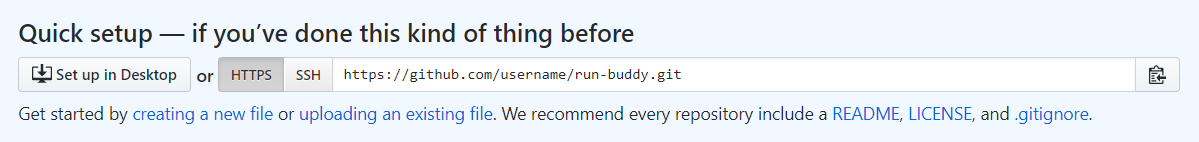
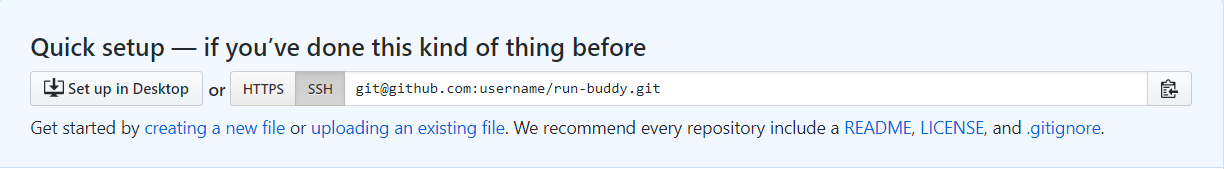
html, git, github cleanup

diff --git a/01-html/content/step-1-html-cmd-git.md b/01-html/content/step-1-html-cmd-git.md
@@ -81,7 +81,7 @@ Of course, everything we've done up to this point could also be accomplished wit
 |-----------|-----------------------|
 |pwd        |print working directory|
 |ls         |list files in directory|
-|cd [name]  |change to directory    |
+|cd (name)  |change to directory    |
 |cd ..      |go up/back a directory |
 |mkdir      |make a new directory   |
 |touch      |make a new file        |
@@ -152,11 +152,11 @@ What is the correct syntax to close the `<title>` tag?\
 What is the difference between `<h1>` and `<h2>`?\
 What is the purpose of the `<body>` tag?
 
-There are two remaining pieces we haven't covered yet. The opening `<html>` tag was actually written as `<html lang="en">`. This is how we can specify the default language for our page. In this case, we're letting browsers know that this page is meant to be read in English. Lastly, there's a tag in the `<head>` that looks like this: `<meta charset="UTF-8" />`. This is an example of a meta tag, [of which there are many](https://devhints.io/html-meta). Like the `<title>` tag, they give the browser extra information about the page, sometimes for display purposes and sometimes for search engine optimization.
+There are two remaining pieces we haven't covered yet. The opening `<html>` tag was actually written as `<html lang="en">`. This is how we can specify the default language for our page. In this case, we're letting browsers know that this page is meant to be read in English. Lastly, there's a tag in the `<head>` that looks like this: `<meta charset="UTF-8" />`. This is an example of a **meta tag**, [of which there are many](https://devhints.io/html-meta). Like the `<title>` tag, they give the browser extra information about the page, sometimes for display purposes and sometimes for search engine optimization. We'll discuss more of these in future modules.
 
-The `charset` meta tag is important to include now, because it specifies the range of characters (letters, numbers, symbols, etc.) that can be used. UTF-8 accommodates just about any character we would want, from foreign language symbols to emojis. Copy this emoji (🏃) and paste it somewhere in your `<body>`. Note that it shows up just fine in the browser, but if you change the meta tag to `<meta charset="ASCII" />`, it no longer works, because the browser will limit the available characters to those of the ASCII character set. Best to stick with UTF-8.
+The `charset` meta tag is important to include now, though, because it specifies the range of characters (letters, numbers, symbols, etc.) that can be used. UTF-8 accommodates just about any character we would want, from foreign language symbols to emojis. Copy this emoji (🏃) and paste it somewhere in your `<body>`. Note that it shows up just fine in the browser, but if you change the meta tag to `<meta charset="ASCII" />`, it no longer works, because the browser will limit the available characters to those of the ASCII character set. Best to stick with UTF-8.
 
-> **Deep Dive:** Read more about [UTF-8 encoding](https://en.wikipedia.org/wiki/UTF-8).
+> **Deep Dive:** Read more about [character encoding](https://www.w3.org/International/questions/qa-what-is-encoding).
 
 The good news is, much of this is boilerplate, meaning every web page is going to start with the same structure. Every page needs a DOCTYPE, an `<html>` tag, a `<head>` tag, etc. It's worth typing out again and again just to reiterate their importance, but it can also be copy/pasted into future projects without harm.
 
@@ -170,40 +170,50 @@ One last thing to keep in mind is how we've been organizing the code in our HTML
 
 ## Getting Git
 
-Our web page doesn't look like much yet, but this is still a good place to stop and take care of another important aspect when it comes to managing a project: Git. Git is a **version control** system that allows you to save snapshots, or commits, of your work. Whenever you reach a good stopping point, you can save, or commit, the current state of your codebase. This creates a nice history of changes that you can look back on and allows you to easily revert to an earlier version if your codebase suddenly breaks beyond repair. Git also lets you push your commits to a remote location, meaning you won't lose any work if your computer crashes, or you can switch between your home computer and office computer and continue where you left off.
+Our web page doesn't look like much yet, but this is still a good place to stop and take care of another important aspect when it comes to managing a project: **version control**. Git is one option to accomplish this. It's a system that allows you to save snapshots (or in Git terms, **commits**) of your work. Whenever you reach a good stopping point, you can save, or commit, the current state of your codebase. This creates a nice history of changes that you can look back on and allows you to easily revert to an earlier version if your codebase suddenly breaks beyond repair. Git also lets you push your commits to a remote location, meaning you won't lose any work if your computer crashes, or you can switch between your home computer and office computer and continue where you left off.
 
-The biggest benefits of Git come from working on a team, which is very likely to happen once you step out into the development workforce. Without Git, it would be extremely tedious for developers to share code and work on the same app without accidentally losing or overwriting each other's code. Using Git, developers can create alternate versions of the same codebase (called branches) and work in isolation. When developers are ready to merge these branches together, Git will point out if any lines of code conflict and give developers a chance to fix the overlap. Pretty nifty stuff.
+The biggest benefits of Git come from working on a team, which is very likely to happen once you step out into the development workforce. Without Git, it would be extremely tedious for developers to share code and work on the same app without accidentally losing or overwriting each other's code. Using Git, developers can create alternate versions of the same codebase (called **branches**) and work in isolation. When developers are ready to merge these branches together, Git will point out if any lines of code conflict and give developers a chance to fix the overlap. Pretty nifty stuff.
 
 > **Deep Dive:** Learn more about [Git](https://git-scm.com/video/what-is-git) from the Git team!
 
-We'll be honest, though... learning Git is tough. It's okay if things don't click right away, or if commits get messed up. The good news is, there will be plenty of opportunities to practice Git in the coming weeks. By the time you complete the boot camp, you'll be a Git master!
+We'll be honest, though... learning Git is tough. It's okay if things don't click right away, or if commits get messed up. Fortunately, there will be plenty of opportunities to practice Git in the coming weeks. By the time you complete the boot camp, you'll be a Git master!
 
 Let's turn our Run Buddy project into a Git **repository.** Open the terminal in the `run-buddy` directory and run the following command: `git init`. The terminal should print something like `Initialized empty Git repository.`
 
 > **Important:** If your computer doesn't recognize the `git` command, make sure you've installed it from the [Git website](https://git-scm.com/downloads).
 
-It may not seem like much happened, but this created a hidden `.git` folder in the `run-buddy` directory that designates it as a Git repository. If you want to verify for yourself, run the command `ls -A`, which will list any hidden files and folders as well as normal files. As a Git repository, though, we can now start doing all things Git while in this folder.
+It may not seem like much happened, but this created a hidden `.git` folder in the `run-buddy` directory that designates it as a Git repository. If you want to verify for yourself, run the command `ls -a`, which will list any hidden files and folders as well as normal files. A file or folder starting with `.` is hidden, and the `.git` folder is marked as hidden, because it's probably not something we should be messing with.
 
-First, try running the command `git status`, which should display the following information:
+Now that we have a Git repository, though, we can now start doing all things Git while in this folder. First, try running the command `git status`, which should display the following information:
 
 ![git status](./assets/step-1/400-git-status.png)
 
-`git status` is a great way to quickly check what files have changed since your last commit (or saved snapshot). Granted, we haven't commited anything yet, so this information may be a little confusing. And why is it saying we're on branch master? Did we make a branch called master? By default, every repository comes with a master branch. We won't worry about creating additional branches just yet, so it's fine to leave it as is. But this information also lists `index.html` under "Untracked files."
+> **Important:** Mac users, if you see a `.DS_Store` file in there as well, ignore it for now. We'll talk more about this file later in the lesson.
 
-The thing about Git is that it only cares about files you tell it to care about. In other words, files you tell it to track. Well, we definitely care about `index.html`, so let's add it to Git's tracking:
+`git status` is a great way to quickly check what files have changed since the last time you saved, or committed, your work. Granted, we're just barely starting out, so there's not much to see yet. But notice that Git has listed `index.html` under `Untracked files`. The thing about Git is that it only cares about files you tell it to care about. In other words, files you tell it to track. Well, we definitely care about `index.html`, so let's add it to Git's tracking:
 
 ```bash
 git add index.html
 git status
 ```
 
-Running `git status` again shows `index.html` under "Changes to be commited." So we haven't actually saved/commited anything yet; we've just prepped Git on what could be commited. Let's go ahead and make that commit now by typing the following: `git commit -m "page template"`
+`git add` is another important command that moves any new files or changes to what is called **staging**. Think of it like the process of getting actors ready to go out on stage. The show hasn't started yet, but we need to round up who is going. In Git terms, we haven't saved/committed anything yet; we've just prepped Git on what could be committed. If you run `git status` again, you'll see that `index.html` now falls under `Changes to be committed`. So let's actually make that commit:
 
-On your first commit, Git may ask you to identify yourself. This is normal. Just follow the instructions in the terminal to set a global name and e-mail. If you needed to do this step, you'll also need to run the `git commit -m "page template"` command again. You'll know you succeeded if the terminal prints something like this:
+```bash
+git commit -m "page template"
+```
+
+`git commit` is the command that will take everything in staging and commit it, but there's an extra piece we should make sure we have: `-m "message"`. This is how we can attach a helpful message to our commits. Best practice, every commit should include a message to explain what this particular change to the code is doing. In our case, we were working on the "page template."
+
+On your first commit, however, Git may ask you to identify yourself:
+
+![git commit](./assets/step-1/450-git-config.png)
+
+This is normal. Just run the commands that the terminal is suggesting (`git config --global user.name "Your Name"`). If you needed to do this step, you'll also need to run the `git commit -m "page template"` command again. You'll know you succeeded if the terminal prints something like this:
 
 ![git commit](./assets/step-1/500-git-commit.png)
 
-Great! You made your first commit! The second half of that command, `-m "page template"`, is how we can attach a helpful message to our commits. Best practice, every commit should include a message to explain what this particular change to the code is doing. Let's go through this process again. In your HTML file, update the content to look like this:
+Great! You made your first commit! But that was a lot to take in. Let's go through the process again. In your HTML file, update the content to look like this:
 
 ```html
 <body>
@@ -215,15 +225,15 @@ Great! You made your first commit! The second half of that command, `-m "page te
 </body>
 ```
 
-Now run `git status` again, and Git will recognize that the `index.html` file has been modified but that the "Changes [are] not staged for commit:"
+Now run `git status`, and Git will recognize that the `index.html` file has been modified but that the `Changes [are] not staged for commit:`
 
 ![git status](./assets/step-1/600-git-status.png)
 
- If we want to save this change to Git, we'll need to `add` it first before the `commit`:
+ If we want to save this change to Git, we'll need to `add` it to staging first before the `commit`:
 
 ```bash
 git add index.html
-git commit -m "add more links"
+git commit -m "add more link text"
 ```
 
 With two commits under our belt, run the command `git log`. This will show a history of all of the commits made, including the author of the commit and the message that was provided:
@@ -240,7 +250,7 @@ How do you add a message to a `git commit`?
 
 ## Outlining the Page
 
-We'll have a chance to practice Git again before we're done, but let's jump back into building out the HTML. Looking at the mock-up again, it may feel quite daunting to turn all of those colors and perfectly-positioned titles and images into raw HTML. That's why this next step is hugely important. As developers, we must resist the urge to start coding without a plan of attack. HTML can easily get out of control if we don't consider how elements fit together.
+We'll have a chance to practice Git again before we're done, but let's jump back into building out the HTML. Looking at the design mock-up again, it may feel quite daunting to turn all of those colors and perfectly-positioned titles and images into raw HTML. That's why this next step is hugely important. As developers, we must resist the urge to start coding without a plan of attack. HTML can easily get out of control if we don't consider how elements fit together.
 
 What's nice about HTML, though, is that it's really just a series of boxes that fit inside of (or next to) each other. Consider this layout:
 
@@ -263,7 +273,7 @@ Represented by the following code:
 </div>
 ```
 
-We're using `<div>` tags here, which are like containers to hold relevant information together. Note that Box 1 and 2 don't overlap; they're two separate areas of content. Maybe Box 1 is an annoying ad and Box 2 is a navigation bar. Inside of these boxes, we could have additional boxes, like an overall list (Box 3) that contains individual links (Boxes 4 and 5). Could we have omitted Box 3 in this example? Probably... but it helps to keep like content grouped together. Thus, Box 3's sole purpose is to better organize smaller information (the links).
+We're using [**div tags**](https://developer.mozilla.org/en-US/docs/Web/HTML/Element/div) here, which are like containers to hold relevant information together. Note that Box 1 and 2 don't overlap; they're two separate areas of content. Maybe Box 1 is an annoying ad and Box 2 is a navigation bar. Inside of these boxes, we could have additional boxes, like an overall list (Box 3) that contains individual links (Boxes 4 and 5). Could we have omitted Box 3 in this example? Probably... but it helps to keep like content grouped together. Thus, Box 3's sole purpose is to better organize smaller information (the links).
 
 > **Pause:** Why was it helpful to indent each nested `<div>`?
 
@@ -271,7 +281,9 @@ Let's take a piece of our mock-up and think about how we could break this down i
 
 ![containers](./assets/step-1/750-box-layout.png)
 
-Note that some containers aren't immediately apparent, because they do nothing but hold other containers. It's okay if this doesn't feel intuitive yet. The more apps you build, the better you'll get at mapping their layouts. This is as good a time as any to practice, so grab a pen and paper and sketch out the rest of the mock-up on your own. Take this step seriously! Stepping away from the computer screen and applying a physical touch to the development process can help shed new light on a problem.
+Note that some containers aren't immediately apparent, because they do nothing but hold other containers. It's okay if this doesn't feel intuitive yet. The more apps you build, the better you'll get at mapping their layouts. This is as good a time as any to practice, so grab a pen and paper and sketch out the rest of the mock-up on your own. Take this step seriously! Stepping away from the computer screen and applying a physical touch to the development process can help shed new light on a problem. To help you, here's how we sketched out one of the later sections:
+
+![hand-drawn](./assets/step-1/775-drawn-outline.png)
 
 > **Story Time:** It's not uncommon for teams to spend many days or even weeks planning out a project before a single line of code is written. Drawing on a piece of paper may feel like a waste of time when we want to scratch that coding itch right away, but doing so ends up saving time and preventing potential problems in the long run.
 
@@ -287,7 +299,32 @@ We've discussed the `<div>` tag a little bit, so with that in mind, you may be t
 </body>
 ```
 
-And that's actually a great start. We know the company name and navigation links will sit inside a larger teal box, which can be represented code-wise with a `<div>`. The problem with the `<div>` tag is that it's a little too generic. If we had a complex layout with a lot of `<div>` tags everywhere, it would be hard to know at a glance what the purpose of each one is.
+And that's actually a great start. We know the company name and navigation links will sit inside a larger teal box, which can be represented code-wise with a `<div>`. The problem with the `<div>` tag is that it's a little too generic. If we had a complex layout with a lot of `<div>` tags everywhere, it would be hard to know at a glance what the purpose of each one is. For example:
+
+```html
+<div>
+  <div>
+    <div>Search</div>
+    <div>
+      <div>John Smith</div>
+      <div>Jane Doe</div>
+    </div>
+  </div>
+  <div>
+    <div>Chat</div>
+    <div>
+      <div>
+        <div>Message 1</div>
+        <div>5:00pm</div>
+      </div>
+      <div>
+        <div>Message 2</div>
+        <div>5:25pm</div>
+      </div>
+    </div>
+  </div>
+</div>
+```
 
 > **Urkel Says:** Some developers call that "div soup."
 
@@ -311,7 +348,7 @@ We have another clearly distinct section in our layout at the very bottom: the f
 </footer>
 ```
 
-The rest of the layout may be harder to find appropriate semantic tags for. The large image at the top is sometimes referred to as a jumbotron or hero, but there's no `<jumbotron>` element in HTML. If none of the existing [semantic tags](https://developer.mozilla.org/en-US/docs/Web/HTML/Element#Content_sectioning) make sense, there's no harm in falling back on a good ol' `<div>`. At the very least, though, we can think of our layout as having several key sections. Hey, what do you know, there's a `<section>` tag! Let's go ahead and outline all of our sections in the `index.html` file:
+While there are dozens of [semantic tags](https://developer.mozilla.org/en-US/docs/Web/HTML/Element#Content_sectioning) available to us, the rest of the layout may be harder to find appropriate matches. The large image at the top is sometimes referred to as a jumbotron or hero, but there's no `<jumbotron>` element in HTML. If none of the existing tags make sense, there's no harm in falling back on a good ol' `<div>`. At the very least, though, we can think of our layout as having several key sections. Hey, what do you know, there's a `<section>` tag! Let's go ahead and outline all of our sections in the `index.html` file:
 
 ```html
 <!-- navigation -->
@@ -368,39 +405,45 @@ As you get into a comfortable workflow, you'll want to commit to Git often. We j
 touch .gitignore
 ```
 
-A `.gitignore` file (yes, the dot is part of it) is where we can specify any files we don't want Git to track. Sometimes developers get into the habit of running `git add -A`, which adds all untracked or modified files that Git finds in your project. The problem with this command is that it will pick up hidden files as well. On macOS, every directory has a hidden `.DS_Store` file that can create unnecessary headaches if accidentally added to Git.
+A `.gitignore` file (yes, the dot is part of it) is where we can specify any files we don't want Git to track. Developers often get into the habit of running a Git command that will automatically pick up all untracked or modified files in a project folder. While this is certainly convenient, sometimes unwanted files end up getting committed. For example, on macOS, every directory has a hidden `.DS_Store` file that can create unnecessary headaches if accidentally added to Git. Mac users probably already noticed Git continually pointing out this file. Windows users, you can simulate the `.DS_Store` problem by creating your own with the `touch .DS_Store` command.
 
-Open the `.gitignore` file in VS Code and add the following line: `.DS_Store`. Even if your OS of choice is Windows, add this line, anyway. If a Mac user joins your team, you want to make sure your repository is already set up correctly. Now run `git status`, which should display the following information:
+Now that everyone has this file in their project, open the `.gitignore` file in VS Code and add the following line: `.DS_Store`. Save the file, then run `git status`, which should display the following information:
 
 ![git status](./assets/step-1/900-git-status.png)
 
-Git sees one modified file (`index.html`) and one new, untracked file (`.gitignore`). Let's add and commit these:
+Note that Git has now ignored the `.DS_Store` file. It also sees one modified file (`index.html` with our new semantic tags) and one new, untracked file (`.gitignore`). Let's add both of these to staging at the same time, using ONE of these commands:
 
 ```bash
+git add .
 git add -A
+```
+
+`git add .` will add any untracked or modified files in the current directory (`.`) and all sub directories. `git add -A` will add any files in the entire project. Both are useful when needing to stage multiple files at once but should be used carefully and not without a `.gitignore` file in place first! With these changes staged, let's commit now:
+
+```bash
 git commit -m "html outline and gitignore"
 ```
 
 Awesome, we've now saved our hard work to Git. The problem, however... these commits only live on our local computer. So if our computer dies, our work is lost. It would be helpful to save this repository in a remote location (i.e. on someone else's computer). That's where GitHub comes in. [GitHub](https://github.com/) is a website that hosts Git repositories. It's free and very popular among developers, so make sure you have an account!
 
-After signing up or logging in to GitHub, find and click the green New button:
+What we'll do is create a new repository on GitHub, then link our local Run Buddy project with this remote repository. After logging in to GitHub, find and click the green New button:
 
 ![new repo](./assets/step-1/1000-github-new.png)
 
-This will take you to a page where you'll be able to create a new repository on GitHub. So what we're going to do is create a repository on GitHub first, then link our local Run Buddy project with this remote repository. On GitHub, give the repository a name but don't check any other options. Then click the Create button.
+This will route you to a page where you'll be able to create a new repository. Give the repository a name (run-buddy) but don't check any other options. Then click the Create button.
 
 ![new repo](./assets/step-1/1100-github-create.png)
 
-The next page will display instructions on how to create a new local repository (which we've already done) or push an existing repository to GitHub. It also displays a link to this repo, which you'll want to copy, making sure HTTPS is selected first:
+The next page will display a blue Quick Setup banner that includes a link to this repository. The link will look something like `git@github.com:username/run-buddy.git`, if the SSH option is clicked, or `https://github.com/username/run-buddy.git` if HTTPS is clicked:
 
 ![copy repo](./assets/step-1/1200-github-copy.png)
 
-> **Pro-Tip:** SSH is definitely worth looking into and setting up when you have time. GitHub has a great set of [tutorials](https://help.github.com/en/articles/about-ssh) on using SSH.
+> **Important:** If you were able to set up your SSH keys in the prework, you should definitely use the SSH option. If not, we highly recommend getting SSH to work before moving on. GitHub has a great set of [tutorials](https://help.github.com/en/articles/about-ssh) on using SSH.
 
-Now that we have a remote repository on GitHub, we need to link it with our local project. Open the terminal again in the `run-buddy` directory and run the following commands, replacing the link with the link you got from GitHub:
+Now that we have a remote repository on GitHub, we need to link it with our local project. Copy the link from the website, then open the terminal again in the `run-buddy` directory and run the following commands, replacing the link below with the link you got from GitHub:
 
 ```bash
-git remote add origin https://github.com/username/run-buddy.git
+git remote add origin git@github.com:username/run-buddy.git
 git remote -v
 ```
 
@@ -410,7 +453,15 @@ The second command, `git remote -v`, shows us which remote links, if any, we've 
 git push origin master
 ```
 
-Git will ask you to enter your GitHub credentials before you're allowed to push. That's understandable, since this is the final step in moving code from your local computer to your remote repository. In this case, GitHub is the origin, and what we're giving it is whatever is on the master branch. Go back to your GitHub repository in the browser and refresh the page. It should look like this:
+If you used the SSH link, Git will ask you to enter your SSH passphrase. The first time you try to push code to GitHub, your computer will also want to know if you trust this website:
+
+![ssh authenticity](./assets/step-1/1250-ssh-authenticity.png)
+
+Type `yes`, because we do trust them. If you used the HTTPS link, on the other hand, you'll be asked to enter your GitHub username and password (every time, which is why SSH is more convenient).
+
+So what exactly did `git push origin master` do? `git push` is the command to send any local commits to a remote location. In this case, the location is `origin` (GitHub), and we wanted to update the origin's `master` branch. We'll talk more about branches in the next module. For now, you only have one version of your codebase, and it's called master by default.
+
+Go back to your GitHub repository in the browser and refresh the page. It should look like this:
 
 ![code pushed](./assets/step-1/1300-github-pushed.png)
 
@@ -432,7 +483,7 @@ Then on the next page, scroll down to the GitHub Pages section. Change the dropd
 
 This tells GitHub to use the contents of your master branch for your live website. Once you do this, GitHub will then display the message: Your site is ready to be published at https://username.github.io/run-buddy/. It might take a minute for this to actually kick in, so wait a moment before visiting this link (replacing "username" with your GitHub username, of course). When you do open it, though, you'll see that your Run Buddy web page is now live on the Internet! As we continue to improve this project and push new commits to GitHub, this live link will automatically update. Thanks, GitHub!
 
-Let's back up and look at this link again, though: https://username.github.io/run-buddy/. Notice how it loaded the contents of our `index.html` file without us having to write https://username.github.io/run-buddy/index.html, although that shows the same page, too. The reason for this is that the browser needs to load something when it visits a website, and if a file wasn't specified (e.g. something.com/contact.html), it defaults to index.html. Knowing this, it would be a good idea for every project to have an `index.html` file!
+Let's back up and look at this link again, though: https://username.github.io/run-buddy/. Notice how it loaded the contents of our `index.html` file without us having to write https://username.github.io/run-buddy/index.html, although that shows the same page, too. The reason for this is that `index.html` is defined as a default by the server. If you visit something.com/contact.html, for instance, the something.com server knows to send back `contact.html`, because it was explicitly asked for. But if a file isn't specified, the server sends back `index.html`. Knowing this, it would be a good idea for every project to have an `index.html` file!
 
 > **Check Point:** \
 What is the purpose of the `.gitignore` file?\
@@ -441,6 +492,20 @@ What is the command to "push" code to GitHub?
 
 ## Reflection
 
-This lesson was mostly about setting up the project, so even though the final result may not look like much yet, we've made life easier for future us. The HTML structure is in place and ready to be filled in with more detailed content and styling. We've established a good workflow with Git to continually save our code changes locally and on GitHub. We also have a live website on GitHub Pages that will begin to take shape once we complete the next several lessons.
+This lesson was mostly about setting up the project, so even though the final result may not look like much yet, we've made life easier for our future selves. The HTML structure is in place and ready to be filled in with more detailed content and styling. We've established a good workflow with Git to continually save our code changes locally and on GitHub. We also have a live website on GitHub Pages that will begin to take shape once we complete the next several lessons. Some of the major takeaways include:
 
-Was it a lot of information to take in? Absolutely! These first few lessons are always difficult, simply because everything is so new. That's why it's important to keep practicing. Force yourself to use the command line. Type out every HTML tag. The more you do it, the quicker it will become second nature.
+* Creating files and folders with the `touch` and `mkdir` commands
+
+* Moving in and out of folders with `cd` and `cd ..`
+
+* Setting up the HTML structure with `<html>`, `<head>`, and `<body>`
+
+* Organizing content with `<div>`, `<section>`, `<header>`, and `<footer>`
+
+* Staging with Git via the `git add` command
+
+* Making commits with `git commit -m ""` and sending them to GitHub with `git push origin master`
+
+Was it a lot of information to take in? Absolutely! These first few lessons are always challenging, simply because everything is so new. That's why it's important to keep practicing. Force yourself to use the command line. Type out every HTML tag. Make practice repositories on GitHub. The more you do it, the quicker it will become second nature.
+
+Next up, we'll continue to learn more about HTML while applying a much-needed visual makeover to our elements. By the end of the module, you'll have everything you need to make beautiful websites beyond Run Buddy, but let's finish this landing page first!
